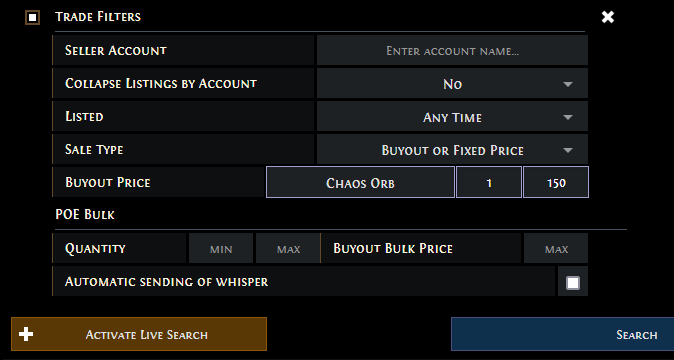
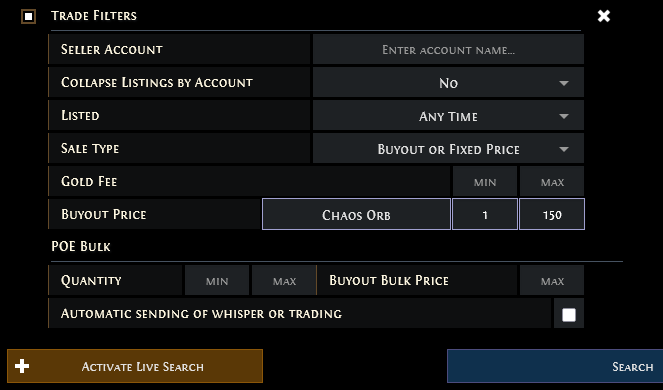
Feat: add "Travel to Hideout" support

diff --git a/src/bulk.js b/src/bulk.js
@@ -12,7 +12,7 @@ window.BULK = {
     _TEMPLATES: {
         NOTIFICATION: '<div class="toast-container toast-bottom-center"><div class="toast toast-STATE" style="display: block;"><div class="toast-title"></div> <div class="toast-message">MESSAGE</div></div></div>',
         TEXTAREA: '<div class="row" data-bulk-id="ID"><div style="margin:0 auto;width:50%;padding:5px;font-family:FontinSmallcaps,serif;"><textarea class="form-control text-center" rows="1" readonly>WHISPER</textarea></div></div>',
-        CONTROLS: '<div class="filter-group" id="bulk-controls"><div class="filter-group-header"><div class="filter"><span class="input-group-btn" style="visibility:hidden;"><button class="btn toggle-btn"></button></span><span class="filter-body"><span class="filter-title filter-title-clickable"><span>POE Bulk</span></span></span></div></div><div class="filter-group-body"><div class="filter filter-property"><span class="filter-body"><div class="filter-title">Quantity</div><span class="sep"></span><input type="number" placeholder="min" maxlength="4" pattern="[0-9]*" min="1" inputmode="numeric" step="any" class="form-control minmax" id="bulk-controls-quantity-min"><span class="sep"></span><input type="number" placeholder="max" maxlength="4" pattern="[0-9]*" min="1" inputmode="numeric" step="any" class="form-control minmax" id="bulk-controls-quantity-max"></span></div><div class="filter filter-property"><span class="filter-body"><div class="filter-title">Buyout Bulk Price</div><span class="sep"></span><input type="number" placeholder="max" maxlength="4" pattern="[0-9.,]*" min="0" inputmode="numeric" step="any" class="form-control minmax" id="bulk-controls-price-max"></span></div><div class="filter filter-property full-span"><span class="filter-body"><div class="filter-title">Automatic sending of whisper</div><span class="sep"></span><label style="display:flex;justify-content:center;align-items: center;background:#1e2124;height:30px;width:30px;float:left;margin:0;cursor:pointer;"><input type="checkbox" style="display:block;border:2px solid #634928;background:#000000;" id="bulk-controls-sending"></label></span></div></div></div>'
+        CONTROLS: '<div class="filter-group" id="bulk-controls"><div class="filter-group-header"><div class="filter"><span class="input-group-btn" style="visibility:hidden;"><button class="btn toggle-btn"></button></span><span class="filter-body"><span class="filter-title filter-title-clickable"><span>POE Bulk</span></span></span></div></div><div class="filter-group-body"><div class="filter filter-property"><span class="filter-body"><div class="filter-title">Quantity</div><span class="sep"></span><input type="number" placeholder="min" maxlength="4" pattern="[0-9]*" min="1" inputmode="numeric" step="any" class="form-control minmax" id="bulk-controls-quantity-min"><span class="sep"></span><input type="number" placeholder="max" maxlength="4" pattern="[0-9]*" min="1" inputmode="numeric" step="any" class="form-control minmax" id="bulk-controls-quantity-max"></span></div><div class="filter filter-property"><span class="filter-body"><div class="filter-title">Buyout Bulk Price</div><span class="sep"></span><input type="number" placeholder="max" maxlength="4" pattern="[0-9.,]*" min="0" inputmode="numeric" step="any" class="form-control minmax" id="bulk-controls-price-max"></span></div><div class="filter filter-property full-span"><span class="filter-body"><div class="filter-title">Automatic sending of whisper or trading</div><span class="sep"></span><label style="display:flex;justify-content:center;align-items: center;background:#1e2124;height:30px;width:30px;float:left;margin:0;cursor:pointer;"><input type="checkbox" style="display:block;border:2px solid #634928;background:#000000;" id="bulk-controls-sending"></label></span></div></div></div>'
     },
     start: function() {
         const me = BULK;
@@ -212,26 +212,39 @@ window.BULK = {
             const jQuery = me._jQuery;
 
             for (const result of data.result) {
-                const listingJSON = result.listing || {};
-
                 const id = result.id || null;
-                const gone = result.gone || false;
-                const whisper = listingJSON.whisper || null;
 
                 if (id) {
+                    const gone = result.gone || false;
+                    const listingJSON = result.listing || {};
+                    const hideout = listingJSON.hideout_token || null;
+                    const whisper = listingJSON.whisper || null;
                     const $bulks = jQuery('[data-bulk-id="' + id + '"]');
 
                     if (gone) {
                         $bulks.remove();
+                    } else if (hideout) {
+                        me._itemById[id] = {
+                            id,
+                            gone,
+                            hideout: true,
+                            mustBeGarbage: 0 < $bulks.length,
+                            couldBeGarbage: false
+                        };
+
+                        if ($bulks.length) {
+                            window.setTimeout(me._garbage, 350);
+                        }
                     } else if (whisper) {
                         const itemJSON = result.item || {};
                         const accountJSON = listingJSON.account || {};
                         const priceJSON = listingJSON.price || {};
                         const priceItemJSON = priceJSON.item || {};
 
-                        const itemData = {
+                        me._itemById[id] = {
                             id,
                             gone,
+                            hideout: false,
                             inAmount: priceItemJSON.amount || 1,
                             inCurrency: priceItemJSON.currency || null,
                             lastCharacterName: accountJSON.lastCharacterName || null,
@@ -246,10 +259,8 @@ window.BULK = {
                             couldBeGarbage: false
                         };
 
-                        me._itemById[id] = itemData;
-
                         if ($bulks.length) {
-                            $bulks.find('textarea').val(me._buildWhisper(itemData)).attr('style', '');
+                            $bulks.find('textarea').val(me._buildWhisper(me._itemById[id])).attr('style', '');
                             window.setTimeout(me._garbage, 350);
                         }
                     }
@@ -275,36 +286,42 @@ window.BULK = {
             const item = me._itemById[id];
 
             if (item) {
-                const quantityMin = parseInt($('#bulk-controls-quantity-min').val().replace(',','.'));
-                const quantityMax = parseInt($('#bulk-controls-quantity-max').val().replace(',','.'));
-                const maxPrice = parseFloat($('#bulk-controls-price-max').val().replace(',','.'));
-                const maxPriceStock = isNaN(maxPrice) ? null : Math.floor(maxPrice / (item.outAmount / item.inAmount));
-
-                if ((!isNaN(quantityMin) && item.stock < quantityMin) || (!isNaN(quantityMax) && quantityMax <= 0) || (null !== maxPriceStock && maxPriceStock <= 0)) {
-                    $node.remove();
-                } else if (!item.gone) {
-                    const whisper = me._buildWhisper(item);
-
-                    const $div = jQuery(me._TEMPLATES.TEXTAREA.replace('ID', id).replace('WHISPER', whisper));
-                    $node.after($div);
-
-                    const $textarea = $div.find('textarea');
-                    const callback = function () {
-                        jQuery(this).select();
-                    };
-
-                    $textarea
-                        .focus(callback)
-                        .click(callback)
-                        .on('copy', function () {
-                            jQuery(this).attr('style', 'background-color:rgb(9,9,9);border-bottom:1px solid #4dc64d;');
-                        })
-                    ;
-
-                    $textarea.select();
-
+                if (item.hideout) {
                     if (jQuery('#bulk-controls-sending').is(':checked')) {
                         $node.find('.direct-btn:not(.disabled)').trigger('click');
+                    }
+                } else {
+                    const quantityMin = parseInt($('#bulk-controls-quantity-min').val().replace(',', '.'));
+                    const quantityMax = parseInt($('#bulk-controls-quantity-max').val().replace(',', '.'));
+                    const maxPrice = parseFloat($('#bulk-controls-price-max').val().replace(',', '.'));
+                    const maxPriceStock = isNaN(maxPrice) ? null : Math.floor(maxPrice / (item.outAmount / item.inAmount));
+
+                    if ((!isNaN(quantityMin) && item.stock < quantityMin) || (!isNaN(quantityMax) && quantityMax <= 0) || (null !== maxPriceStock && maxPriceStock <= 0)) {
+                        $node.remove();
+                    } else if (!item.gone) {
+                        const whisper = me._buildWhisper(item);
+
+                        const $div = jQuery(me._TEMPLATES.TEXTAREA.replace('ID', id).replace('WHISPER', whisper));
+                        $node.after($div);
+
+                        const $textarea = $div.find('textarea');
+                        const callback = function () {
+                            jQuery(this).select();
+                        };
+
+                        $textarea
+                            .focus(callback)
+                            .click(callback)
+                            .on('copy', function () {
+                                jQuery(this).attr('style', 'background-color:rgb(9,9,9);border-bottom:1px solid #4dc64d;');
+                            })
+                        ;
+
+                        $textarea.select();
+
+                        if (jQuery('#bulk-controls-sending').is(':checked')) {
+                            $node.find('.direct-btn:not(.disabled)').trigger('click');
+                        }
                     }
                 }
 

diff --git a/CHANGELOG.md b/CHANGELOG.md
@@ -1,6 +1,11 @@
 POE Bulk CHANGELOG
 ==================
 
+1.4.0 - 2025-09-06
+------------------
+
+- Feat: add "Travel to Hideout" support
+
 1.3.0 - 2024-04-06
 ------------------
 
